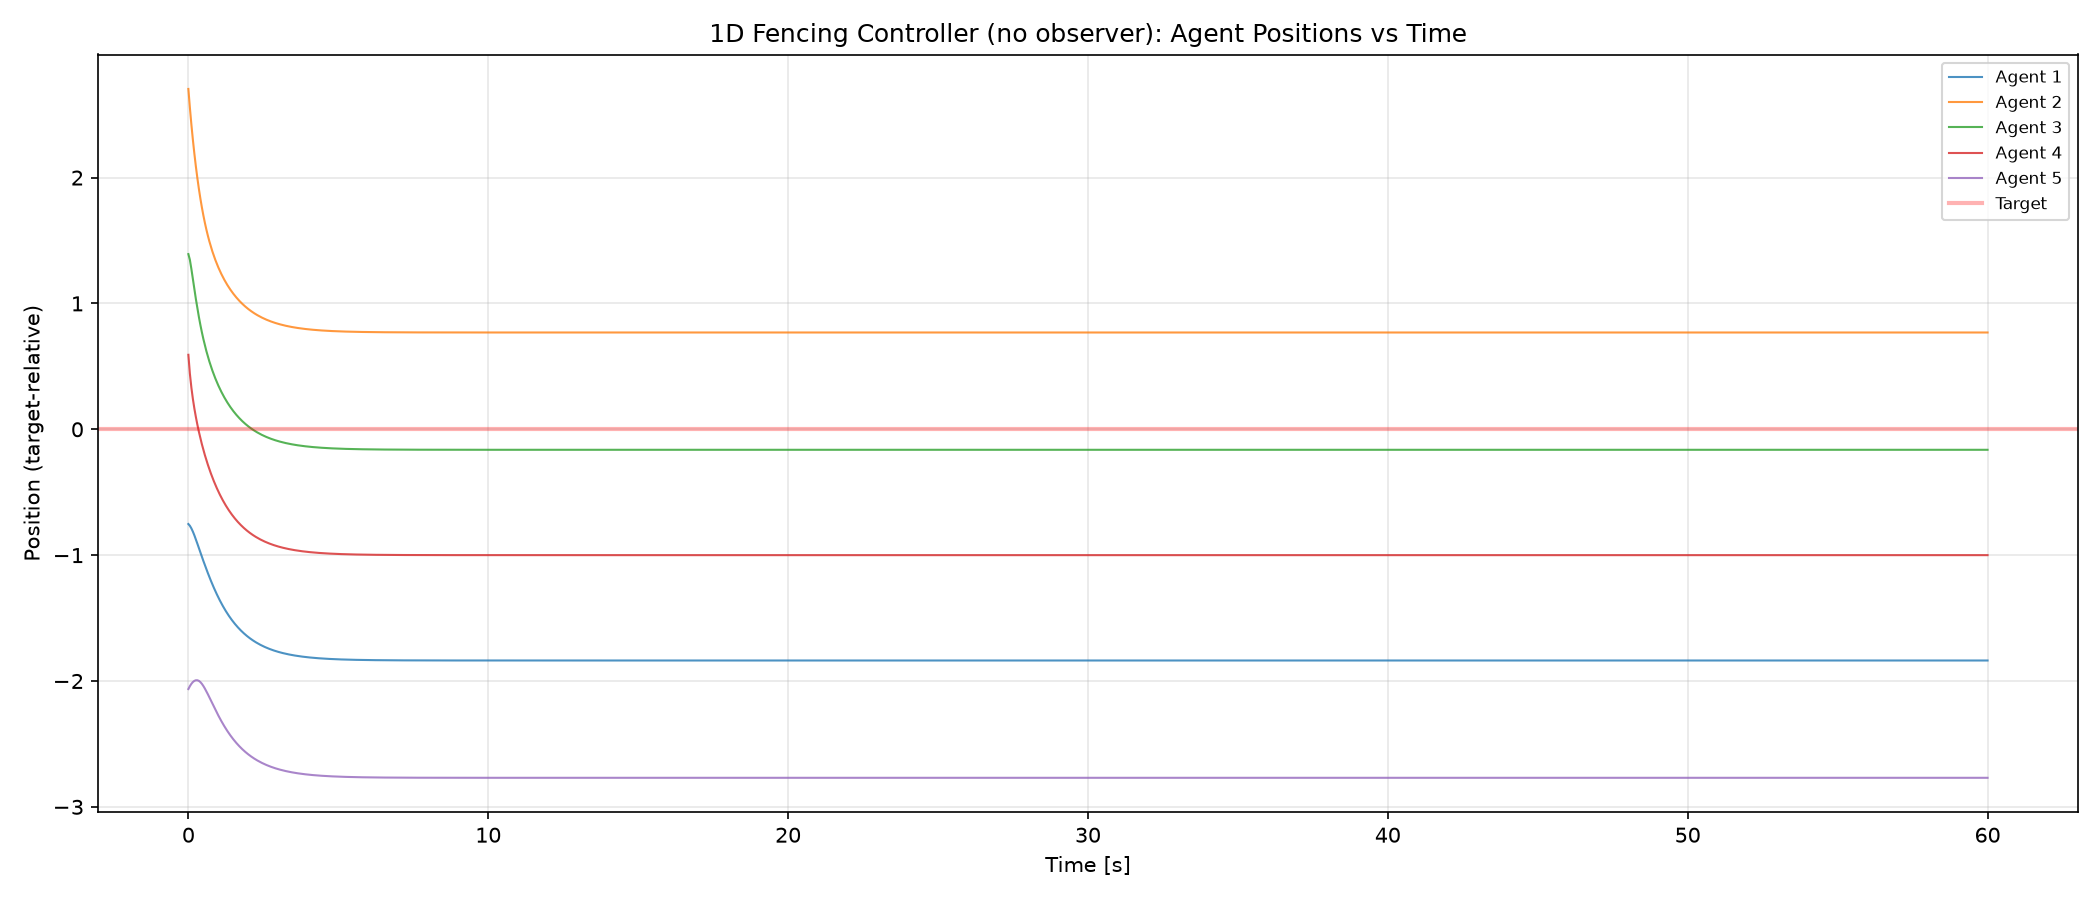
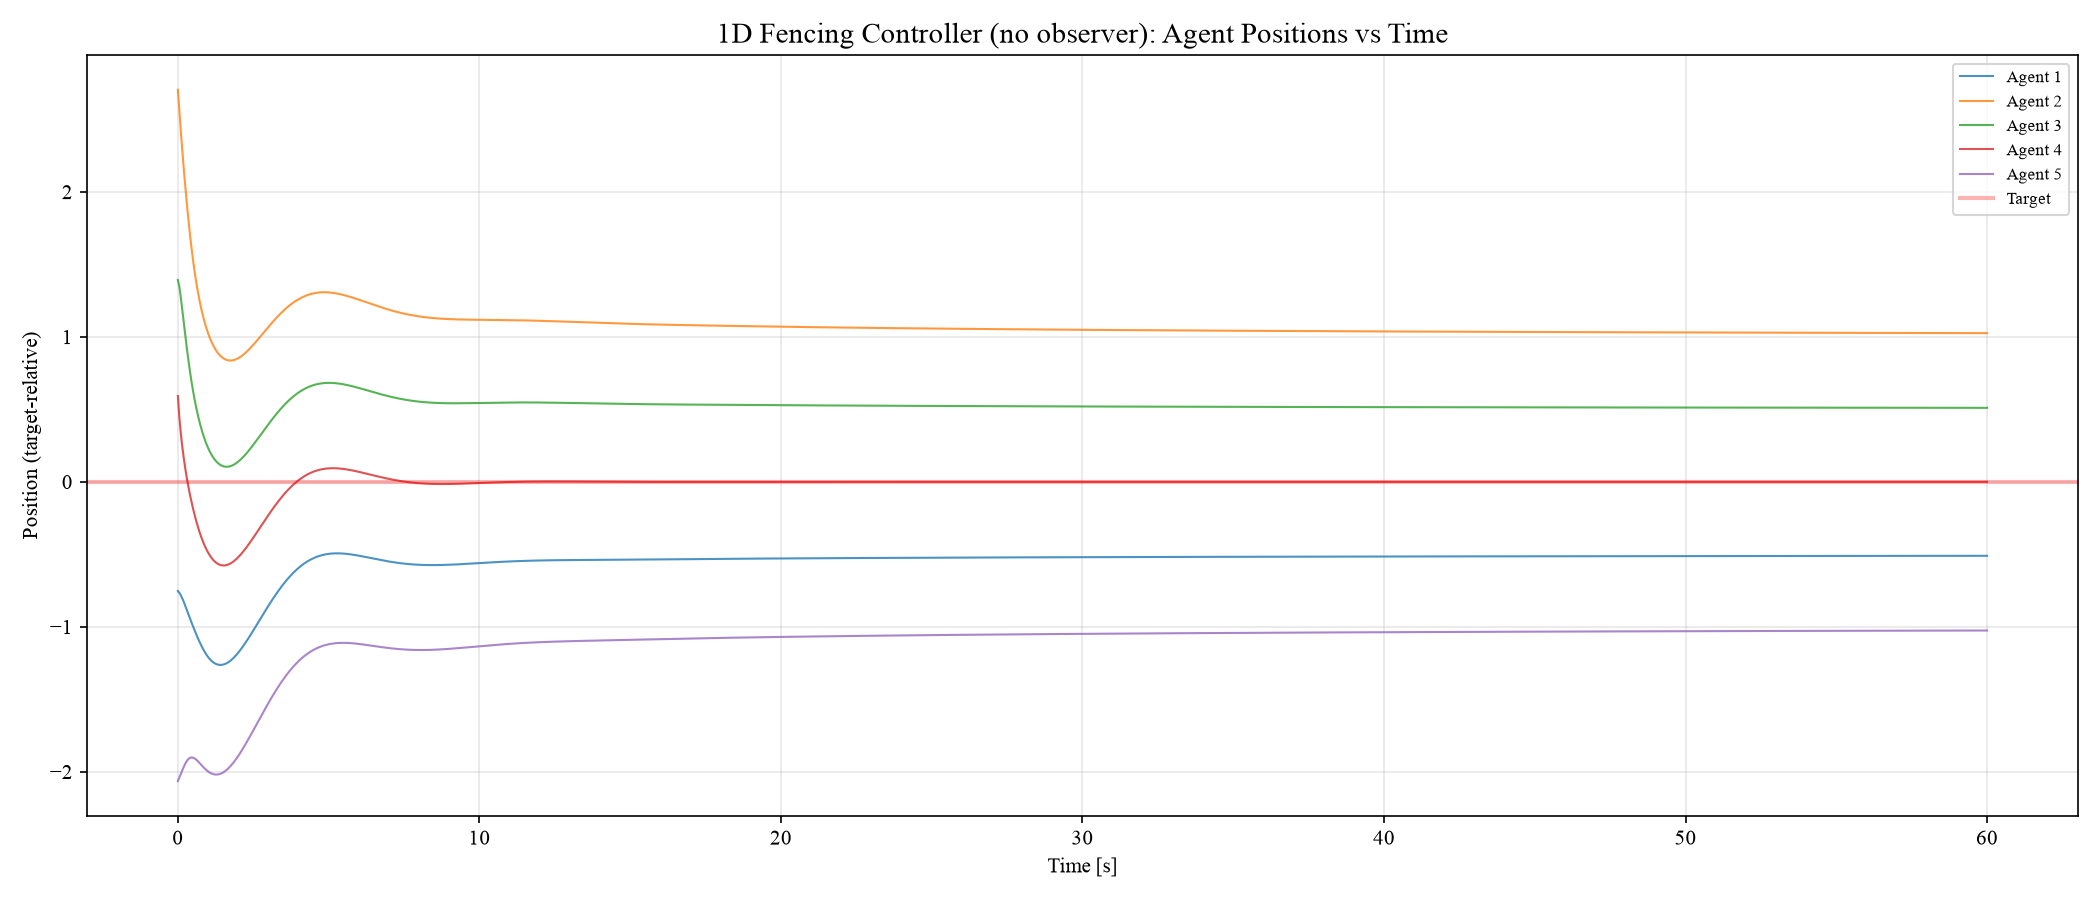
add math delimiters

diff --git a/content/posts/bifu-fencing/index.md b/content/posts/bifu-fencing/index.md
@@ -5,21 +5,28 @@ params:
 ---
 
 Most existing results on flocking/fencing control achieve the velocity‑matching property, which is typically guaranteed via a Lyapunov function.
-However, the first algorithm presented in https://ieeexplore.ieee.org/document/9415150 only guarantees that the average velocity of all agents converges to the target value.
+However, the first algorithm presented in [(Kou et al. 2021 TAC algorithm 1)](https://ieeexplore.ieee.org/document/9415150)[^1] only guarantees that the average velocity of all agents converges to the target value.
 The final formation yielded by this algorithm exhibits several intriguing phenomena, which I suspect may correspond to bifurcations.
+
+[^1]: L. Kou, Z. Chen and J. Xiang, "Cooperative Fencing Control of Multiple Vehicles for a Moving Target With an Unknown Velocity," in IEEE Transactions on Automatic Control, vol. 67, no. 2, pp. 1008-1015, Feb. 2022, doi: 10.1109/TAC.2021.3075320.
 
 
 
 ## Controller
 
-{{< katex displayMode=true >}}
+The controller only consists of there terms: target attraction, neighbor repulsion and integral of target attraction.
+
+\[
 \begin{aligned}
-u_i &= \varphi_i + k_1(x_0 - x_i) + v_i \\
+\dot{p}_i=u_i &= \varphi_i + k_1(x_0 - x_i) + v_i \\
 \dot{v}_i &= k_2(x_0 - x_i)
 \end{aligned}
-{{< /katex >}}
+\]
 
-Central repulsion $\alpha(s) = 1/(s-d) - 1/(\mu-d)$ for $s \in (d, \mu]$.
+Here, the central repulsion function is selected as  $\alpha(s) = 1/(s-d) - 1/(\mu-d)$ for $s \in (d, \mu]$.
+The paper proved that the target with constant speed can be fenced with this controller.
+Different from other fencing results, the final formation will rotate about the target as demonstrated in its paper.
+
 
 ## Three regimes
 
@@ -29,26 +36,30 @@ Central repulsion $\alpha(s) = 1/(s-d) - 1/(\mu-d)$ for $s \in (d, \mu]$.
 | **$d / \mu$** | $0.5 / 2.0$ | $5.0 / 9.0$ | $5.0 / 9.0$ |
 | **$k_1 / k_2$** | $1.0 / -$ | $0.5 / 0.5$ | $0.5 / 0.5$ |
 | **$v_0$** | $1.0$ | $(1, 0)$ | $(1, 0)$ |
-| **Behavior** | Static equilibrium in target frame | $|\omega| = \sqrt{k_2}$ | $T \approx 2.49\text{s}$, $\omega_\text{eff}/\sqrt{k_2} \approx 3.57$ |
+| **Behavior** | Static equilibrium in target frame | \(\|\omega\| = \sqrt{k_2}\) | $T \approx 2.49\text{s}$, $\omega_\text{eff}/\sqrt{k_2} \approx 3.57$ |
 
-### 1D (no observer)
+### 1D
 
-```
-x₀ = [-0.75, 2.70, 1.39, 0.59, -2.06]
-```
+\[
+x_0 = [-0.75, 2.70, 1.39, 0.59, -2.06]
+\]
 
 Vehicles converge to a static formation that fences the target. Velocity error $\to 0$.
+The space between two nearby vehicles converges to the minimum safety distance $d$.
+
+! ss
 
 ![](images/positions_1d.png)
 
 ### 2D rigid rotation
 
-```
-x₀ = regular hexagon, R = 8.0
-v₀ = (1, 0)
-```
+\[
+x_0 = \textrm{regular hexagon}, R = 8.0
+\quad
+v_0 = [1, 0]^T
+\]
 
-Formation rotates at $|\omega| = \sqrt{k_2} = 0.707$ — matches the theoretical prediction from `fencing_rotation.tex`.
+Formation rotates at $|\omega| = \sqrt{k_2} = 0.707$ **which can be verified with analysis**.
 
 ![](images/positions_2d.gif)
 
@@ -58,11 +69,12 @@ Steady-state snapshots at $t = 30, 31, 32$ s:
 
 ### 2D breathing limit cycle
 
-```
-x₀ = [[-10.58, -12.53], [-5.38, 5.90], [-0.18, 9.18],
+\[
+x_0 = [[-10.58, -12.53], [-5.38, 5.90], [-0.18, 9.18],
       [-7.35, -4.81], [-6.29, 12.44]]
-v₀ = (1, 0)
-```
+\quad
+v_0 = [1, 0]^T
+\]
 
 Non-symmetric initial conditions. 
 Pairwise distances oscillate periodically — the formation breathes instead of rotating rigidly.
@@ -75,10 +87,10 @@ Steady-state snapshots at $t = 30, 31, 32$ s:
 
 ### 3D non-planar rotation
 
-```
-x₀ = random 3D positions
-v₀ = (1, 0, 0)
-```
+\[
+x_0 = \textrm{random 3D positions}\quad
+v_0 = (1, 0, 0)
+\]
 
 With random 3D initial conditions, vehicles form a genuinely non-planar rotating formation ($\sigma_3/\sigma_1 \approx 0.91$). Planar initial conditions stay planar — confirming the code is correct and the 3D behavior is real.
 
